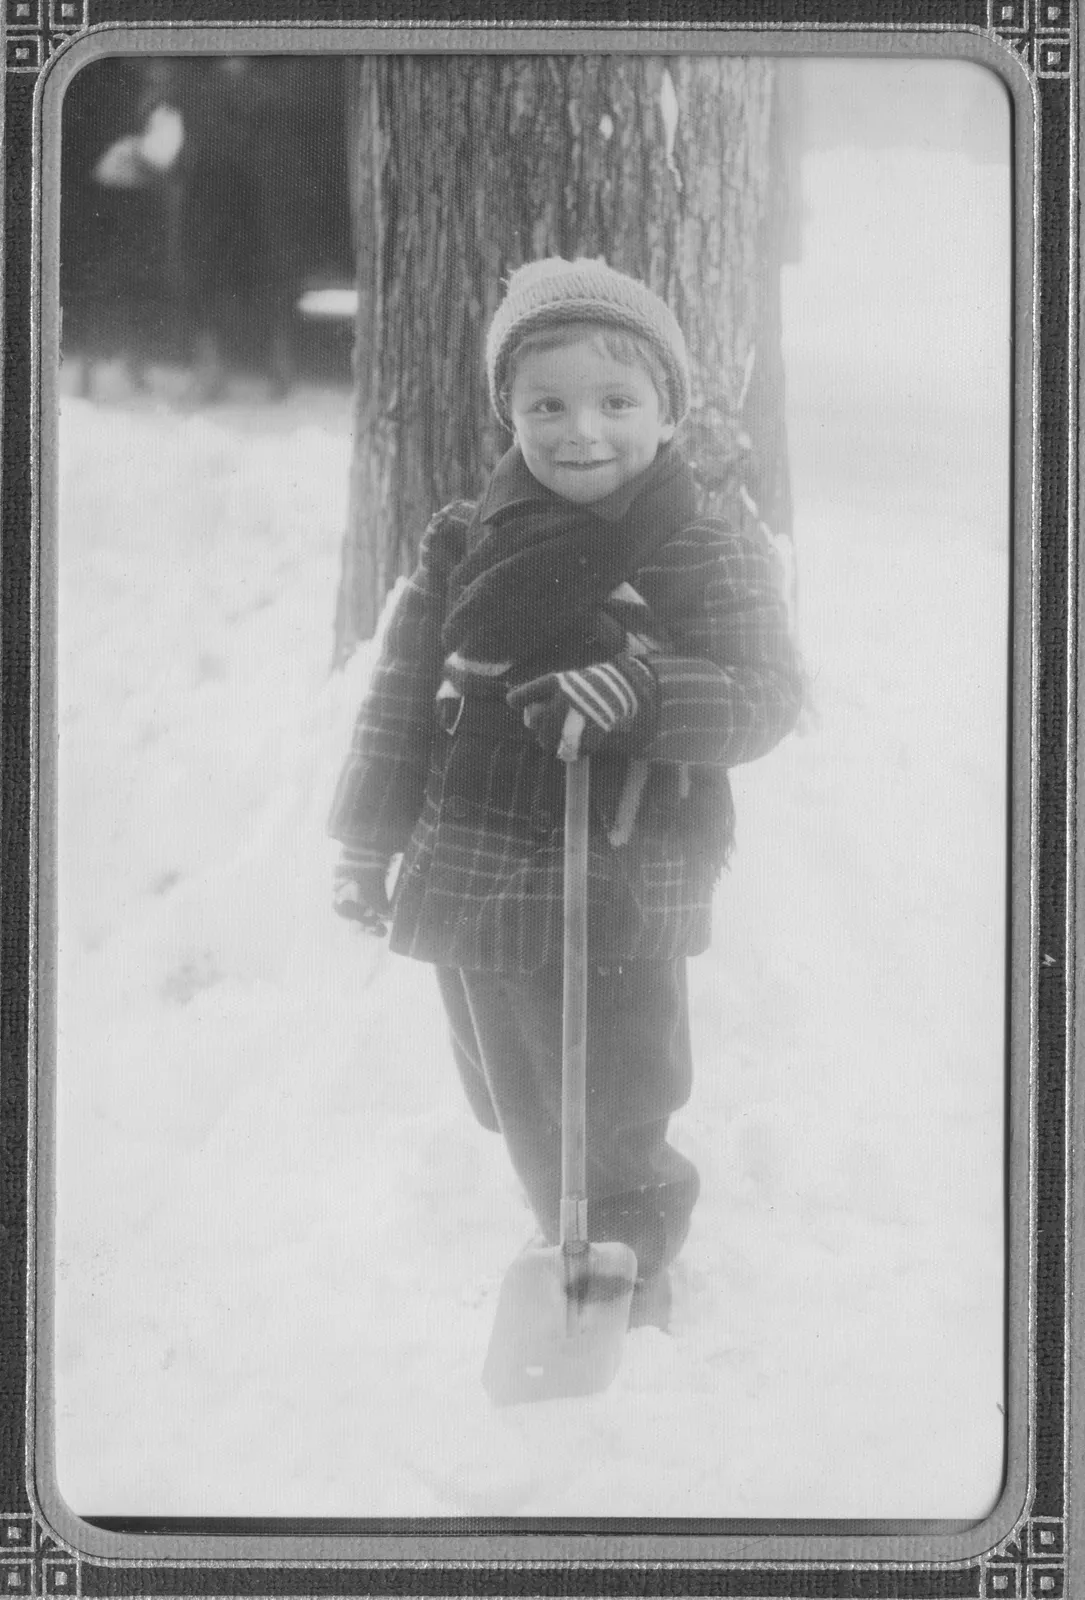
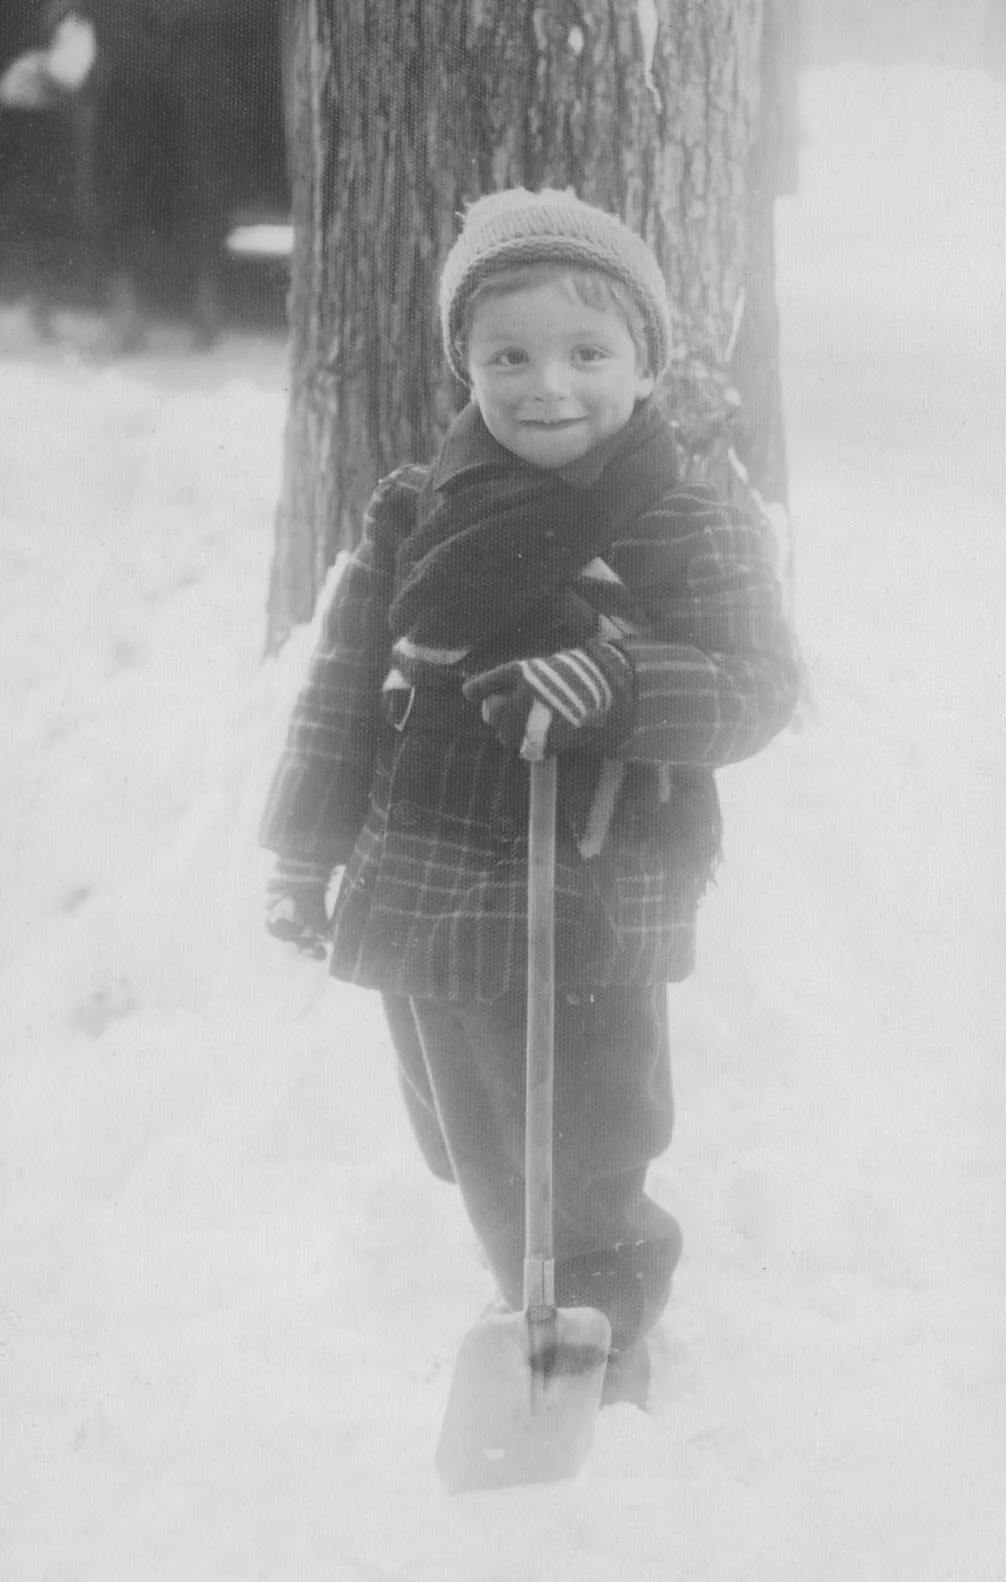
fix: server-render book pages and fix about-page image issues
- BooksGroup: derive initial book and preview state from props instead of
  a client-only effect, so the cover (LCP element) is in the server HTML.
  Book pages read ?preview= server-side; Suspense spinners removed.
  Fixes LCP 3.9s -> 1.7s and CLS 1.008 -> 0.001 on book pages.
- Hero and featured cover: fetchPriority="high", proper sizes, drop
  quality=100; real alt text for the hero image.
- Sidebar thumbnails: add sizes so they aren't fetched at 1080w.
- Regenerate steve-schrader-author.webp upright (EXIF orientation was
  dropped in conversion) and crop scan borders from history photos 1-3.
- Mosaic: optional objectPosition per item; top-anchor the childhood photo.

diff --git a/src/app/components/books-group/BooksGroup.tsx b/src/app/components/books-group/BooksGroup.tsx
@@ -1,7 +1,7 @@
 "use client";
 
 import { useState, useEffect } from "react";
-import { useSearchParams, useRouter, useParams } from "next/navigation";
+import { useSearchParams, useRouter } from "next/navigation";
 import Image from "next/image";
 import booksData from "../../data/books-data.json";
 import { clsx } from "clsx";
@@ -36,52 +36,40 @@ export interface Book {
 
 interface BooksGroupProps {
   initialBookId?: string;
+  initialShowDetails?: boolean;
 }
 
-export function BooksGroup({ initialBookId }: BooksGroupProps) {
-  const [currentIndex, setCurrentIndex] = useState(0);
-  const [showDetails, setShowDetails] = useState(false);
-  const [isLoading, setIsLoading] = useState(true);
+function getBookIndex(books: Book[], bookId?: string) {
+  const foundIndex = books.findIndex((book) => book.id === bookId);
+  return foundIndex === -1 ? 0 : foundIndex;
+}
+
+function isDetailsParam(previewParam: string | null) {
+  return previewParam === "false" || previewParam === "0";
+}
+
+export function BooksGroup({
+  initialBookId,
+  initialShowDetails = false,
+}: BooksGroupProps) {
+  const { books, sidebar } = booksData;
+
+  // Initial state comes from props so the server-rendered HTML already
+  // contains the featured book (and its cover image, the LCP element)
+  const [currentIndex, setCurrentIndex] = useState(() =>
+    getBookIndex(books, initialBookId)
+  );
+  const [showDetails, setShowDetails] = useState(initialShowDetails);
   const searchParams = useSearchParams();
   const router = useRouter();
-  const params = useParams();
-
-  const { books, sidebar } = booksData;
   const featured = books[currentIndex];
   const sidebarBooks = books.filter((_, index) => index !== currentIndex);
 
-  // Check URL params and set initial book on component mount
+  // Keep state in sync with the URL on client navigation (e.g. back/forward)
   useEffect(() => {
-    let bookIndex = 0;
-
-    // If we have an initialBookId prop (from dynamic route), use that
-    if (initialBookId) {
-      const foundIndex = books.findIndex((book) => book.id === initialBookId);
-      if (foundIndex !== -1) {
-        bookIndex = foundIndex;
-      }
-    }
-    // Otherwise, check if we're on a dynamic route
-    else if (params?.bookId) {
-      const foundIndex = books.findIndex((book) => book.id === params.bookId);
-      if (foundIndex !== -1) {
-        bookIndex = foundIndex;
-      }
-    }
-
-    setCurrentIndex(bookIndex);
-
-    // Check preview parameter
-    const previewParam = searchParams.get("preview");
-    if (previewParam === "false" || previewParam === "0") {
-      setShowDetails(true);
-    } else {
-      setShowDetails(false);
-    }
-
-    // Set loading to false after checking params
-    setIsLoading(false);
-  }, [searchParams, initialBookId, params?.bookId, books]);
+    setCurrentIndex(getBookIndex(books, initialBookId));
+    setShowDetails(isDetailsParam(searchParams.get("preview")));
+  }, [searchParams, initialBookId, books]);
 
   const handlePreviewClick = (e: React.MouseEvent) => {
     e.preventDefault();
@@ -114,10 +102,6 @@ export function BooksGroup({ initialBookId }: BooksGroupProps) {
     });
   };
 
-  if (isLoading) {
-    return null;
-  }
-
   return (
     <div
       className={clsx(
@@ -148,8 +132,8 @@ export function BooksGroup({ initialBookId }: BooksGroupProps) {
                   "border border-white": featured.id === "threads",
                 }
               )}
-              quality={100}
               priority
+              fetchPriority="high"
             />
           </div>
 
@@ -314,6 +298,7 @@ export function BooksGroup({ initialBookId }: BooksGroupProps) {
                   src={book.image || "/placeholder.svg"}
                   alt={book.title}
                   fill
+                  sizes="(max-width: 1024px) 33vw, 150px"
                   className="object-cover transition-transform duration-300 group-hover:scale-105"
                 />
               </div>

diff --git a/src/app/components/mosaic/Mosaic.tsx b/src/app/components/mosaic/Mosaic.tsx
@@ -15,6 +15,7 @@ export interface MosaicItem {
   tags: string[];
   alt: string;
   aspectRatio?: string;
+  objectPosition?: string;
   featured?: boolean;
   captureDate?: string | null;
   location?: string | null;
@@ -35,6 +36,7 @@ interface LoadingImageProps {
   src: string;
   alt: string;
   className?: string;
+  objectPosition?: string;
   onLoad?: () => void;
   onError?: () => void;
 }
@@ -43,6 +45,7 @@ const LoadingImage: React.FC<LoadingImageProps> = ({
   src,
   alt,
   className = "",
+  objectPosition,
   onLoad,
   onError,
 }) => {
@@ -89,6 +92,7 @@ const LoadingImage: React.FC<LoadingImageProps> = ({
           className={clsx("mosaic-image", {
             "mosaic-image-loading": isLoading,
           })}
+          style={objectPosition ? { objectPosition } : undefined}
           onLoad={handleLoad}
           onError={handleError}
         />
@@ -331,7 +335,11 @@ const LazyImage: React.FC<{
       aria-label={`View ${item.title || item.description} in full screen`}
     >
       {isInView ? (
-        <LoadingImage src={item.url} alt={item.alt || item.description} />
+        <LoadingImage
+          src={item.url}
+          alt={item.alt || item.description}
+          objectPosition={item.objectPosition}
+        />
       ) : (
         <div className="mosaic-skeleton">
           <div className="mosaic-skeleton-pulse"></div>
@@ -418,6 +426,7 @@ const MosaicGallery: React.FC<MosaicGalleryProps> = ({
                 <LoadingImage
                   src={item.url}
                   alt={item.alt || item.description}
+                  objectPosition={item.objectPosition}
                 />
               </div>
             );

diff --git a/src/app/books/[bookId]/page.tsx b/src/app/books/[bookId]/page.tsx
@@ -1,7 +1,5 @@
 import { BooksGroup } from "../../components/books-group/BooksGroup";
 import { notFound } from "next/navigation";
-import { Suspense } from "react";
-import Loading from "../../components/loading/Loading";
 import booksData from "../../data/books-data.json";
 
 interface BookPageProps {
@@ -42,8 +40,12 @@ function getBookSchema(book: (typeof booksData.books)[number]) {
   };
 }
 
-export default async function BookPage({ params }: BookPageProps) {
+export default async function BookPage({
+  params,
+  searchParams,
+}: BookPageProps) {
   const { bookId } = await params;
+  const { preview } = await searchParams;
 
   // Find the book by ID to verify it exists
   const book = booksData.books.find((book) => book.id === bookId);
@@ -58,9 +60,10 @@ export default async function BookPage({ params }: BookPageProps) {
         type="application/ld+json"
         dangerouslySetInnerHTML={{ __html: JSON.stringify(getBookSchema(book)) }}
       />
-      <Suspense fallback={<Loading size="lg" text="Loading book details..." />}>
-        <BooksGroup initialBookId={bookId} />
-      </Suspense>
+      <BooksGroup
+        initialBookId={bookId}
+        initialShowDetails={preview === "false" || preview === "0"}
+      />
     </div>
   );
 }

diff --git a/src/app/books/page.tsx b/src/app/books/page.tsx
@@ -1,14 +1,16 @@
 import Section from "app/components/section/Section";
 import { BooksGroup } from "../components/books-group/BooksGroup";
-import { Suspense } from "react";
-import Loading from "../components/loading/Loading";
 
-export default function BooksPage() {
+interface BooksPageProps {
+  searchParams: Promise<{ preview?: string }>;
+}
+
+export default async function BooksPage({ searchParams }: BooksPageProps) {
+  const { preview } = await searchParams;
+
   return (
     <Section classname="flex flex-col-reverse gap-8 lg:flex-row">
-      <Suspense fallback={<Loading size="lg" text="Loading books..." />}>
-        <BooksGroup />
-      </Suspense>
+      <BooksGroup initialShowDetails={preview === "false" || preview === "0"} />
     </Section>
   );
 }

diff --git a/src/app/components/hero/Hero.tsx b/src/app/components/hero/Hero.tsx
@@ -72,9 +72,10 @@ export default function Hero({
             alt={imageAlt || "please provide an alt text for this image"}
             width={1000}
             height={1000}
+            sizes="(max-width: 768px) 100vw, 60vw"
             className="rounded-xl object-cover h-96 md:h-full w-full border-primary/80 transition-transform duration-500"
-            quality={100}
             priority
+            fetchPriority="high"
           />
         </div>
       )}
